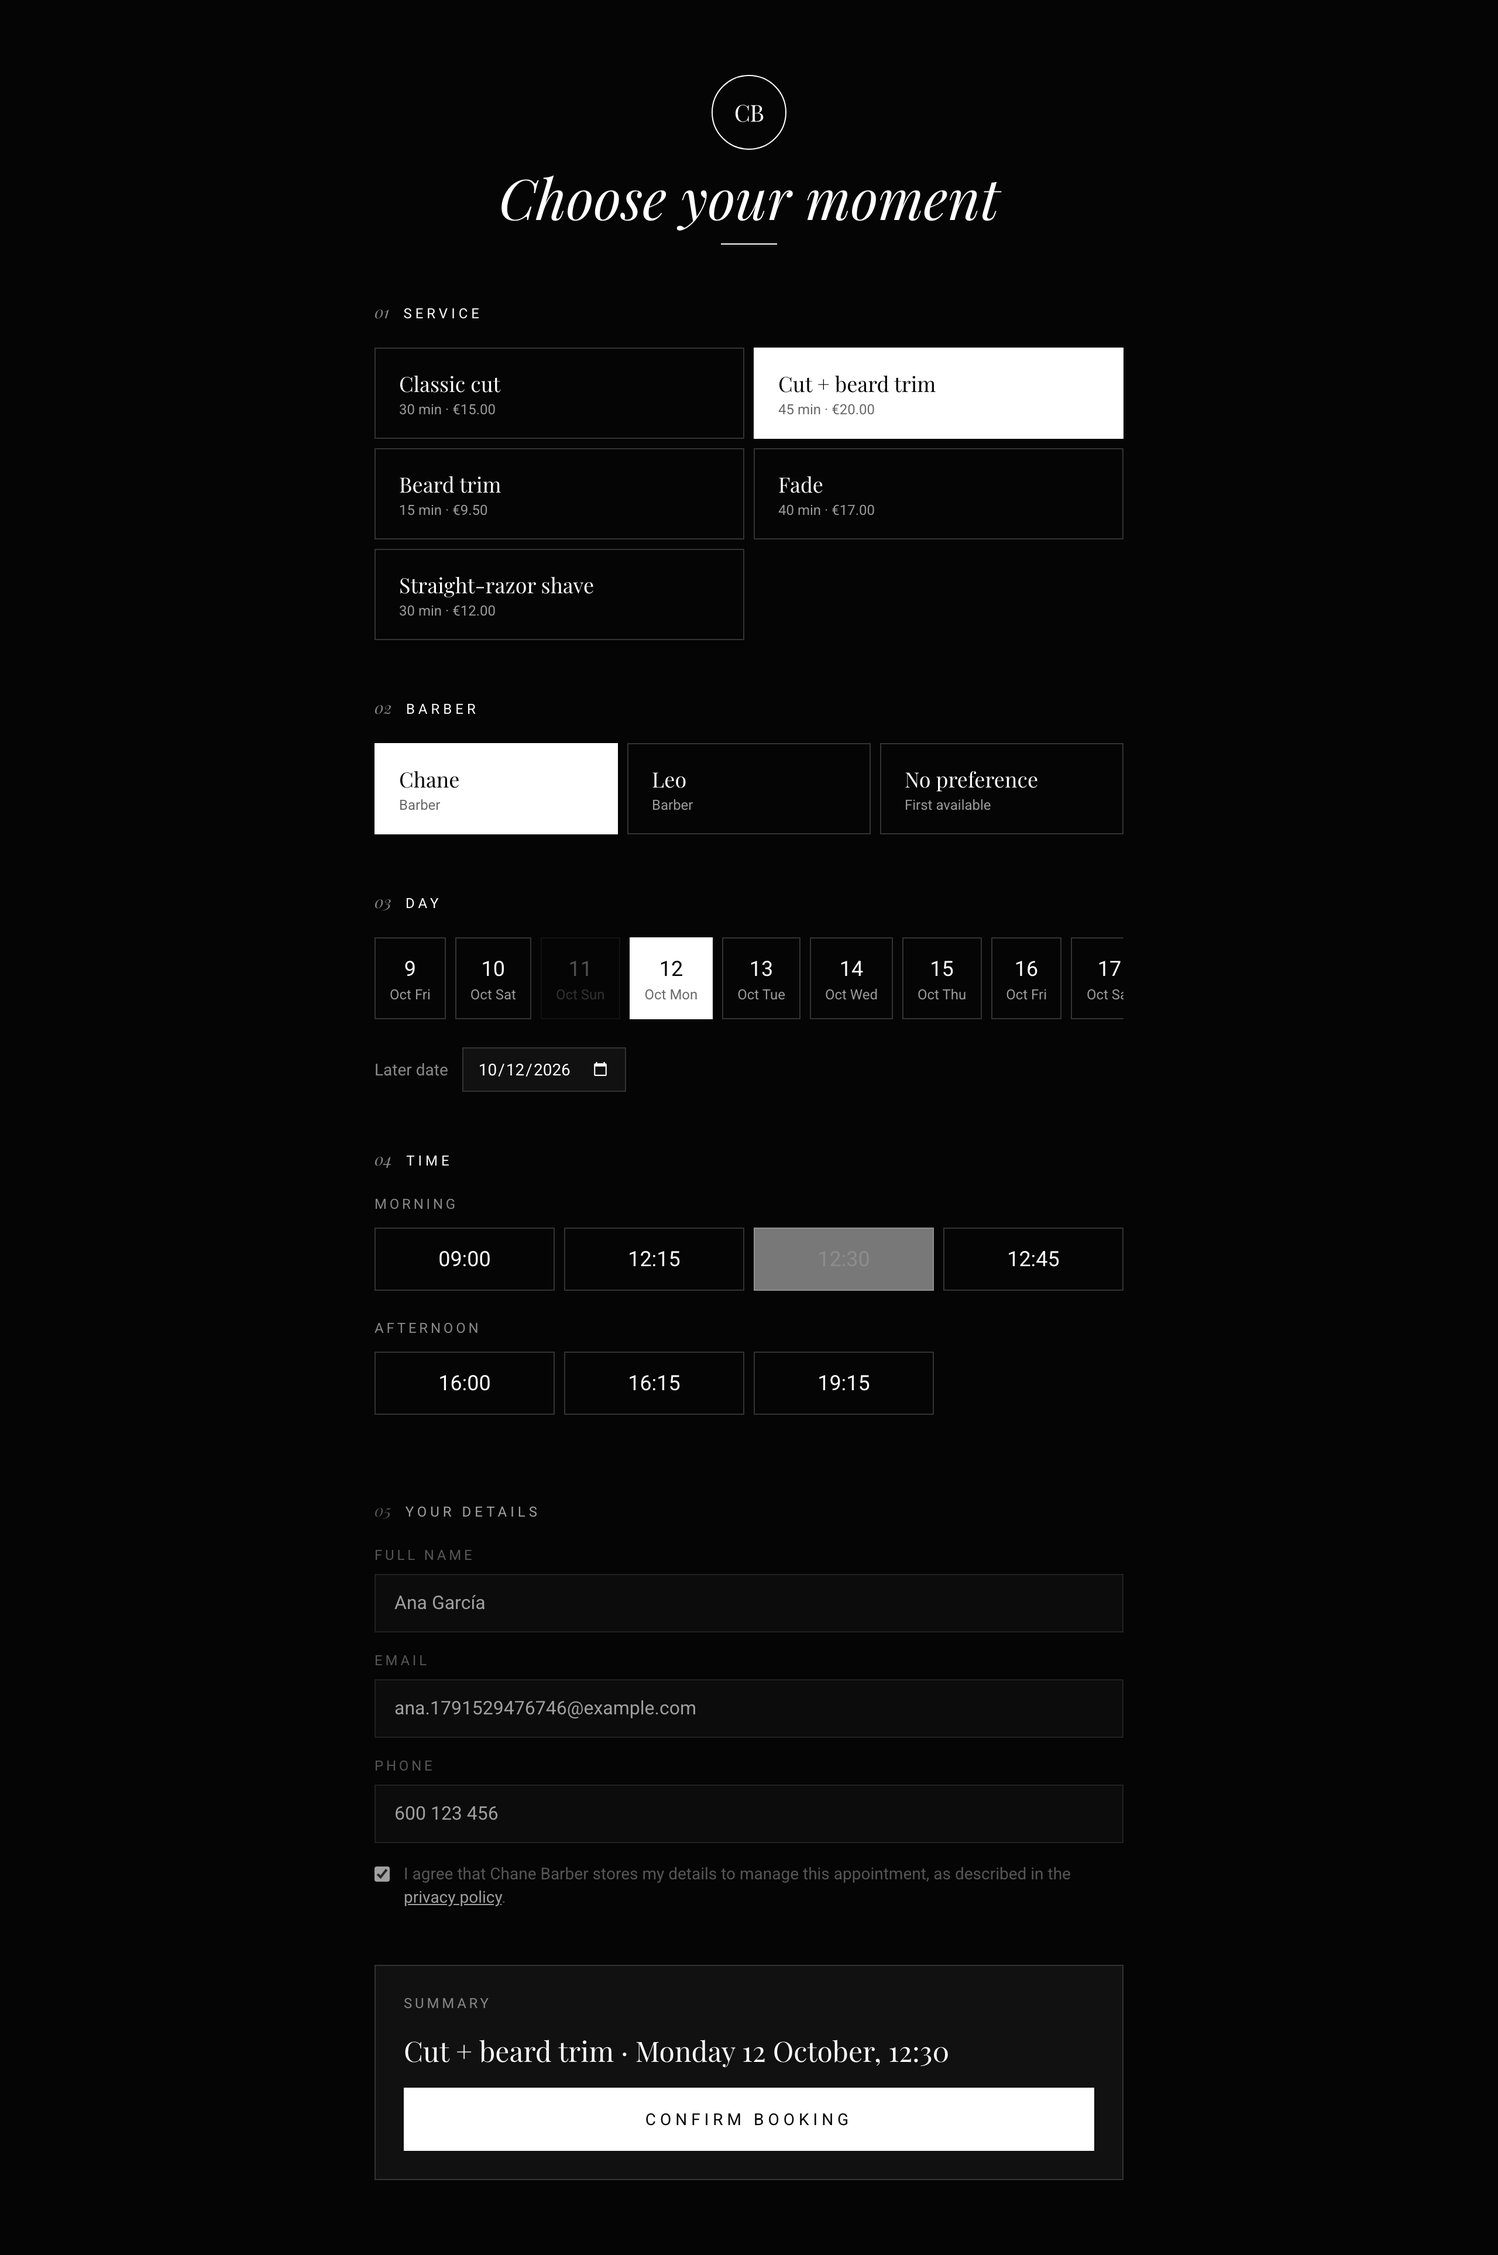
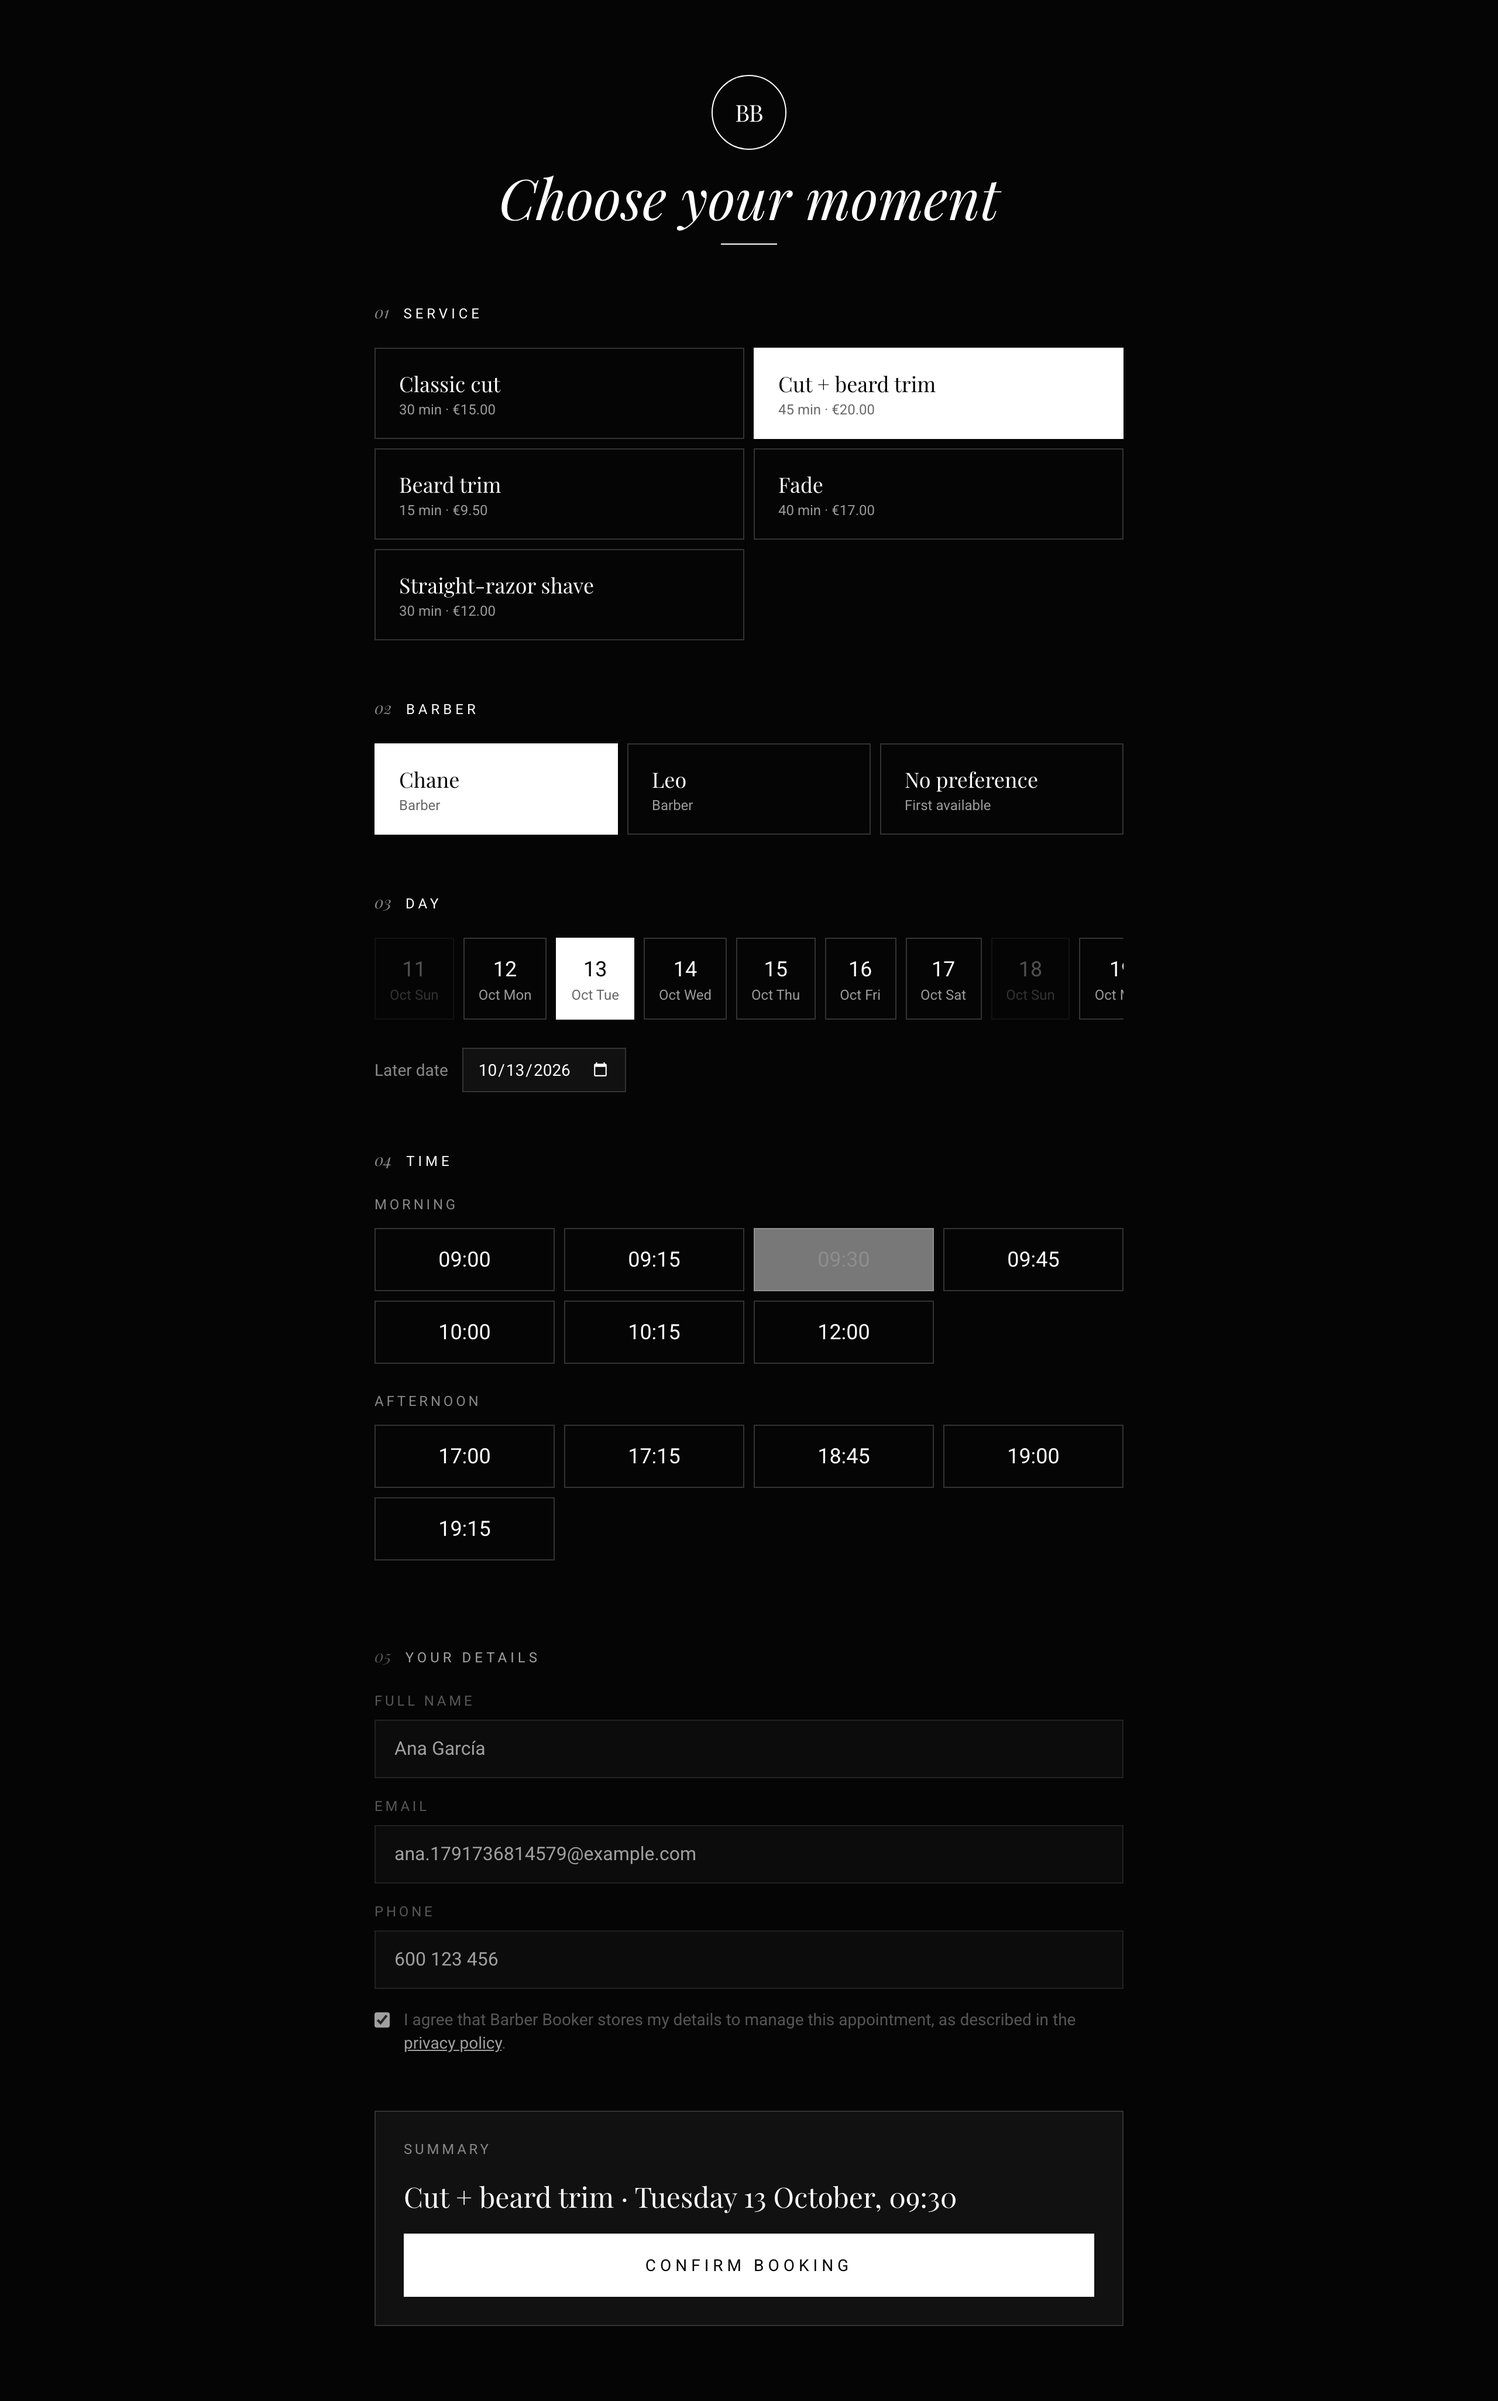
Rebrand to Barber Booker with a generic barbershop photo
The demo is now a fictional shop, Barber Booker (monogram BB), instead of
the real Chane Barber. The hero background is an Unsplash photo of an empty
barbershop interior (Barney Goodman, Unsplash License), credited in the
README; the photo of the real shop front is gone.

- Page titles, landing heading and footer, aria-labels, the calendar file
  name, the seeded shop name, the default sender and the docs.
- The booking consent names the configured shop, like the privacy page it
  links to, so both always name the same data controller.
- The screenshot script picked a stale email: saved email file names are
  cut to a fixed length, so "is-conf" stopped matching with the longer
  name. It now takes the email written after its own booking.
- Regenerated the README screenshots.

diff --git a/scripts/screenshots/capture.spec.ts b/scripts/screenshots/capture.spec.ts
@@ -1,5 +1,5 @@
 import { execFileSync } from "node:child_process";
-import { readdirSync, readFileSync, statSync } from "node:fs";
+import { existsSync, readdirSync, readFileSync, statSync } from "node:fs";
 import path from "node:path";
 
 import { devices, expect, test, type Page } from "@playwright/test";
@@ -35,7 +35,7 @@ function nextOpenDay(): string {
 
 test("public pages and the confirmation email", async ({ page }) => {
   await page.goto("/", { waitUntil: "networkidle" });
-  // Wait for the shop-front photo behind the hero, not just the page shell.
+  // Wait for the background photo behind the hero, not just the page shell.
   await page.waitForFunction(() => {
     const image = document.querySelector<HTMLImageElement>("header img");
     return Boolean(image?.complete && image.naturalWidth > 0);
@@ -46,6 +46,7 @@ test("public pages and the confirmation email", async ({ page }) => {
   await fillDetails(page);
   await page.screenshot({ path: `${OUT}/booking.png`, fullPage: true });
 
+  const bookedAt = Date.now();
   await page.getByRole("button", { name: "Confirm booking" }).click();
   await expect(page.getByRole("heading", { name: /See you soon/ })).toBeVisible();
   await page.screenshot({ path: `${OUT}/confirmation.png` });
@@ -57,16 +58,19 @@ test("public pages and the confirmation email", async ({ page }) => {
   await chooseFirstTime(page, 4);
   await page.screenshot({ path: `${OUT}/manage.png`, fullPage: true });
 
-  // The local file transport saved the confirmation email as HTML.
-  await expect
-    .poll(() => readdirSync(".mail").filter((f) => f.endsWith(".html")).length)
-    .toBeGreaterThan(0);
-  const latest = readdirSync(".mail")
-    .filter((f) => f.includes("is-conf") && f.endsWith(".html"))
-    .map((f) => path.join(".mail", f))
-    .sort((a, b) => statSync(b).mtimeMs - statSync(a).mtimeMs)[0]!;
+  // The local file transport saved the confirmation email as HTML. It is the
+  // only email this test sends (the new time above is never confirmed), so
+  // take the file written after the booking. File names are not matched:
+  // they are cut to a fixed length and change with the shop name.
+  const emailsSinceBooking = () =>
+    (existsSync(".mail") ? readdirSync(".mail") : [])
+      .filter((f) => f.endsWith(".html"))
+      .map((f) => path.join(".mail", f))
+      .filter((f) => statSync(f).mtimeMs >= bookedAt);
+  await expect.poll(() => emailsSinceBooking().length).toBeGreaterThan(0);
+  const [confirmation] = emailsSinceBooking();
   await page.setViewportSize({ width: 680, height: 900 });
-  await page.setContent(readFileSync(latest, "utf8"));
+  await page.setContent(readFileSync(confirmation!, "utf8"));
   await page.screenshot({ path: `${OUT}/email.png`, fullPage: true });
 });
 

diff --git a/tests/integration/notifications.test.ts b/tests/integration/notifications.test.ts
@@ -61,7 +61,7 @@ describe("appointment emails", () => {
     const [email] = mail.outbox;
     expect(email).toMatchObject({
       to: customer.customerEmail,
-      subject: "Your appointment at Chane Barber is confirmed",
+      subject: "Your appointment at Barber Booker is confirmed",
     });
     expect(email!.html).toContain("Classic cut");
     expect(email!.html).toContain("Chane");
@@ -78,7 +78,7 @@ describe("appointment emails", () => {
     await notifyRescheduled(db, id, local("10:00"));
 
     const [email] = mail.outbox;
-    expect(email!.subject).toBe("Your appointment at Chane Barber has moved");
+    expect(email!.subject).toBe("Your appointment at Barber Booker has moved");
     expect(email!.text).toContain("10:00");
     expect(email!.text).toContain("17:00");
     expect(icsOf()).toContain("SEQUENCE:1");
@@ -91,7 +91,7 @@ describe("appointment emails", () => {
     await notifyCancelled(db, id);
 
     const [email] = mail.outbox;
-    expect(email!.subject).toBe("Your appointment at Chane Barber was cancelled");
+    expect(email!.subject).toBe("Your appointment at Barber Booker was cancelled");
     expect(email!.html).toContain("/book");
     expect(email!.html).not.toContain("/manage/");
     expect(icsOf()).toContain("METHOD:CANCEL");
@@ -127,7 +127,7 @@ describe("sendDueReminders", () => {
 
     expect(await sendDueReminders(db, sundayEvening)).toMatchObject({ due: 1, sent: 1, failed: 0 });
     expect(mail.outbox).toHaveLength(1);
-    expect(mail.outbox[0]!.subject).toBe("See you tomorrow at Chane Barber");
+    expect(mail.outbox[0]!.subject).toBe("See you tomorrow at Barber Booker");
 
     // A second (or overlapping) run finds nothing to do.
     expect(await sendDueReminders(db, sundayEvening)).toMatchObject({ due: 0, sent: 0, failed: 0 });

diff --git a/src/app/page.tsx b/src/app/page.tsx
@@ -7,14 +7,14 @@ import { Monogram } from "@/components/monogram";
 import { formatDuration, formatPrice, WEEKDAY_NAMES } from "@/lib/format";
 import { getCatalogue } from "@/server/catalogue";
 
-import shopfront from "../../public/media/shopfront.jpg";
+import barbershop from "../../public/media/barbershop.jpg";
 
 export default function Home() {
   return (
     <>
       <header className="relative flex min-h-svh flex-col items-center justify-center overflow-hidden px-4 text-center">
         <Image
-          src={shopfront}
+          src={barbershop}
           alt=""
           fill
           priority
@@ -27,7 +27,7 @@ export default function Home() {
         <div className="relative flex flex-col items-center gap-6">
           <Monogram size="lg" />
           <p className="text-muted text-xs tracking-[0.35em] uppercase">Gentlemen&apos;s barber</p>
-          <h1 className="font-display text-6xl italic sm:text-8xl">Chane Barber</h1>
+          <h1 className="font-display text-6xl italic sm:text-8xl">Barber Booker</h1>
           <div className="bg-foreground h-px w-16" />
           <p className="text-muted max-w-sm font-light">Where your best occasion begins.</p>
           <Link
@@ -53,7 +53,7 @@ export default function Home() {
       </main>
 
       <footer className="border-border text-muted border-t px-4 py-10 text-center text-xs">
-        © Chane Barber · Demo project built with Next.js and PostgreSQL ·{" "}
+        © Barber Booker · Demo project built with Next.js and PostgreSQL ·{" "}
         <a
           href="https://github.com/alexestepagallego/barber-booking"
           className="hover:text-foreground underline"

diff --git a/tests/unit/ics.test.ts b/tests/unit/ics.test.ts
@@ -7,7 +7,7 @@ const event = {
   sequence: 0,
   startsAt: new Date("2026-10-08T08:00:00Z"),
   endsAt: new Date("2026-10-08T08:45:00Z"),
-  summary: "Cut + beard trim, Chane Barber",
+  summary: "Cut + beard trim, Barber Booker",
   description: "With Chane.\nManage: https://example.com/manage/abc",
   location: "Calle Mayor 1; Sevilla",
   status: "confirmed" as const,
@@ -56,7 +56,7 @@ describe("buildIcs", () => {
     expect(ics).toContain("DTSTART:20261008T080000Z");
     expect(ics).toContain("DTEND:20261008T084500Z");
     expect(ics).toContain("DTSTAMP:20261007T120000Z");
-    expect(ics).toContain("SUMMARY:Cut + beard trim\\, Chane Barber");
+    expect(ics).toContain("SUMMARY:Cut + beard trim\\, Barber Booker");
     expect(ics).toContain("LOCATION:Calle Mayor 1\\; Sevilla");
     expect(ics).toContain("STATUS:CONFIRMED");
   });

diff --git a/src/app/book/booking-flow.tsx b/src/app/book/booking-flow.tsx
@@ -282,8 +282,8 @@ export function BookingFlow({ catalogue, today }: { catalogue: Catalogue; today:
               className="mt-1 accent-white"
             />
             <span className="text-muted">
-              I agree that Chane Barber stores my details to manage this appointment, as described
-              in the{" "}
+              I agree that {shop.name} stores my details to manage this appointment, as described in
+              the{" "}
               <a href="/privacy" target="_blank" className="text-foreground underline">
                 privacy policy
               </a>

diff --git a/src/server/db/seed-data.ts b/src/server/db/seed-data.ts
@@ -1,10 +1,11 @@
 /**
- * Demo data based on the real Chane Barber shop. Shared by the seed script
- * and the integration tests so both work with the same shape of data.
+ * Demo data for Barber Booker, a fictional shop inspired by a real one.
+ * Shared by the seed script and the integration tests so both work with the
+ * same shape of data.
  * Prices are placeholders.
  */
 export const SHOP = {
-  name: "Chane Barber",
+  name: "Barber Booker",
   // Placeholders: configure the real ones from the admin panel.
   phone: "+34 600 000 000",
   address: "Calle Mayor 1, Spain",

diff --git a/src/components/monogram.tsx b/src/components/monogram.tsx
@@ -1,4 +1,4 @@
-/** The "CB" roundel from the shop sign. */
+/** The "BB" roundel of the Barber Booker brand. */
 export function Monogram({ size = "md" }: { size?: "sm" | "md" | "lg" }) {
   const sizes = {
     sm: "h-10 w-10 text-sm",
@@ -10,7 +10,7 @@ export function Monogram({ size = "md" }: { size?: "sm" | "md" | "lg" }) {
       aria-hidden="true"
       className={`font-display inline-flex items-center justify-center rounded-full border border-current tracking-tight ${sizes[size]}`}
     >
-      CB
+      BB
     </span>
   );
 }

diff --git a/e2e/booking.spec.ts b/e2e/booking.spec.ts
@@ -12,7 +12,7 @@ import {
 test.describe("customer journey", () => {
   test("from the landing page to a confirmed booking", async ({ page }) => {
     await page.goto("/");
-    await expect(page.getByRole("heading", { level: 1, name: "Chane Barber" })).toBeVisible();
+    await expect(page.getByRole("heading", { level: 1, name: "Barber Booker" })).toBeVisible();
     await expect(page.getByText("Classic cut").first()).toBeVisible();
 
     await page.getByRole("link", { name: "Book an appointment" }).click();

diff --git a/src/app/manage/[token]/page.tsx b/src/app/manage/[token]/page.tsx
@@ -27,7 +27,7 @@ export default function ManagePage({ params }: PageProps<"/manage/[token]">) {
   return (
     <main className="mx-auto w-full max-w-2xl px-4 py-10 sm:py-16">
       <header className="mb-12 flex flex-col items-center gap-4 text-center">
-        <Link href="/" aria-label="Chane Barber home">
+        <Link href="/" aria-label="Barber Booker home">
           <Monogram />
         </Link>
         <h1 className="font-display text-4xl italic sm:text-5xl">Your appointment</h1>

diff --git a/src/app/book/page.tsx b/src/app/book/page.tsx
@@ -15,7 +15,7 @@ export default function BookPage() {
   return (
     <main className="mx-auto w-full max-w-2xl px-4 py-10 sm:py-16">
       <header className="mb-12 flex flex-col items-center gap-4 text-center">
-        <Link href="/" aria-label="Chane Barber home">
+        <Link href="/" aria-label="Barber Booker home">
           <Monogram />
         </Link>
         <h1 className="font-display text-4xl italic sm:text-5xl">Choose your moment</h1>

diff --git a/src/app/privacy/page.tsx b/src/app/privacy/page.tsx
@@ -18,7 +18,7 @@ export default function PrivacyPage() {
   return (
     <main className="mx-auto w-full max-w-2xl px-4 py-10 sm:py-16">
       <header className="mb-12 flex flex-col items-center gap-4 text-center">
-        <Link href="/" aria-label="Chane Barber home">
+        <Link href="/" aria-label="Barber Booker home">
           <Monogram />
         </Link>
         <h1 className="font-display text-4xl italic sm:text-5xl">Privacy policy</h1>

diff --git a/src/server/config.ts b/src/server/config.ts
@@ -15,9 +15,9 @@ export function appUrl(): string {
   return "http://localhost:3000";
 }
 
-/** Sender address, e.g. "Chane Barber <bookings@mail.example.com>". */
+/** Sender address, e.g. "Barber Booker <bookings@mail.example.com>". */
 export function emailFrom(): string {
-  return process.env.EMAIL_FROM ?? "Chane Barber <bookings@example.com>";
+  return process.env.EMAIL_FROM ?? "Barber Booker <bookings@example.com>";
 }
 
 /**
